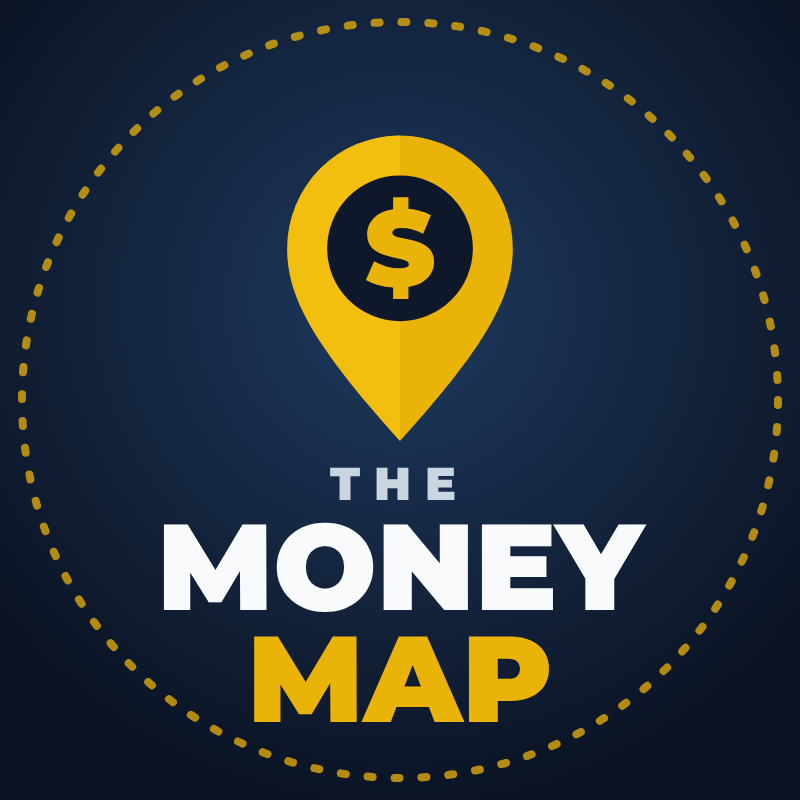
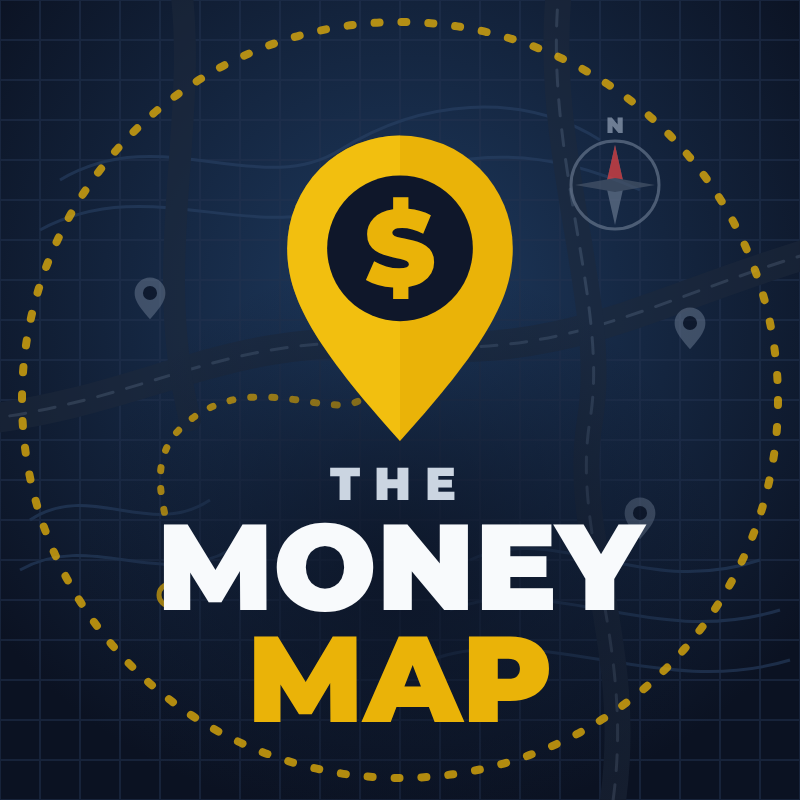
Add map elements to profile picture background
Claude-Session: https://claude.ai/code/session_01AiTfnjVJMM56dPYtNRzCsc

diff --git a/channel/profile.html b/channel/profile.html
@@ -178,6 +178,32 @@ function trashCan(cx, by, op=1) {
 
 let g=`<defs><radialGradient id="bg" cx="50%" cy="38%" r="65%"><stop offset="0" stop-color="#1E3A5F"/><stop offset="1" stop-color="#0B1222"/></radialGradient></defs>
 <rect width="800" height="800" fill="url(#bg)"/>
+<g opacity="0.55">
+ <g stroke="#22324F" stroke-width="2">${Array.from({length:21},(_,i)=>`<line x1="${i*40}" y1="0" x2="${i*40}" y2="800"/><line x1="0" y1="${i*40}" x2="800" y2="${i*40}"/>`).join('')}</g>
+ <g fill="none" stroke="#2B4468" stroke-width="3">
+  <path d="M60 180 C 160 120 260 200 340 150 S 520 90 600 140"/><path d="M40 230 C 150 170 260 250 350 200 S 530 140 640 190"/>
+  <path d="M470 560 C 560 520 640 600 760 560"/><path d="M450 610 C 550 570 650 650 780 610"/><path d="M430 660 C 540 620 660 700 790 660"/>
+  <path d="M30 520 C 90 480 150 540 210 500"/><path d="M20 570 C 90 530 160 590 230 550"/>
+ </g>
+ <g fill="none" stroke-linecap="round">
+  <path d="M-20 420 C 150 400 230 330 400 345 S 650 300 820 250" stroke="#1E293B" stroke-width="30"/>
+  <path d="M-20 420 C 150 400 230 330 400 345 S 650 300 820 250" stroke="#475569" stroke-width="3" stroke-dasharray="16 14"/>
+  <path d="M560 -20 C 540 150 610 300 590 420 S 640 650 610 820" stroke="#1E293B" stroke-width="26"/>
+  <path d="M560 -20 C 540 150 610 300 590 420 S 640 650 610 820" stroke="#475569" stroke-width="3" stroke-dasharray="16 14"/>
+  <path d="M180 -20 C 200 120 150 260 190 420" stroke="#1E293B" stroke-width="22"/>
+ </g>
+</g>
+<path d="M170 595 C 190 540 125 470 190 420 S 330 420 360 400" fill="none" stroke="${GOLD}" stroke-width="7" stroke-dasharray="3 18" stroke-linecap="round" opacity="0.8"/>
+<circle cx="170" cy="595" r="11" fill="none" stroke="${GOLD}" stroke-width="5" opacity="0.8"/>
+${[[640,520],[150,300],[690,330]].map(([x,y])=>`<g transform="translate(${x},${y}) scale(0.32)" opacity="0.55"><path d="M0 60 C -38 18 -48 -2 -48 -22 A48 48 0 1 1 48 -22 C 48 -2 38 18 0 60Z" fill="#64748B"/><circle cx="0" cy="-22" r="22" fill="#0B1222"/></g>`).join('')}
+<g transform="translate(615,185)" opacity="0.7">
+ <circle r="44" fill="none" stroke="#64748B" stroke-width="3"/>
+ <path d="M0 -40 L9 0 L0 40 L-9 0Z" fill="#64748B"/><path d="M0 -40 L9 0 L-9 0Z" fill="${RED}"/>
+ <path d="M-40 0 L0 -7 L40 0 L0 7Z" fill="#475569"/>
+ ${text(0,-52,'N',22,'#94A3B8',900)}
+</g>
+<radialGradient id="fade" cx="50%" cy="72%" r="40%"><stop offset="0" stop-color="#0B1222" stop-opacity="0.75"/><stop offset="1" stop-color="#0B1222" stop-opacity="0"/></radialGradient>
+<rect width="800" height="800" fill="url(#fade)"/>
 <circle cx="400" cy="400" r="378" fill="none" stroke="${GOLD}" stroke-width="8" stroke-dasharray="5 22" stroke-linecap="round" opacity="0.75"/>
 <g transform="translate(400,300) scale(2.35)"><path d="M0 60 C -38 18 -48 -2 -48 -22 A48 48 0 1 1 48 -22 C 48 -2 38 18 0 60Z" fill="${GOLD}"/>
 <path d="M0 60 C -38 18 -48 -2 -48 -22 A48 48 0 0 1 0 -70 Z" fill="#FACC15" opacity="0.5"/>
